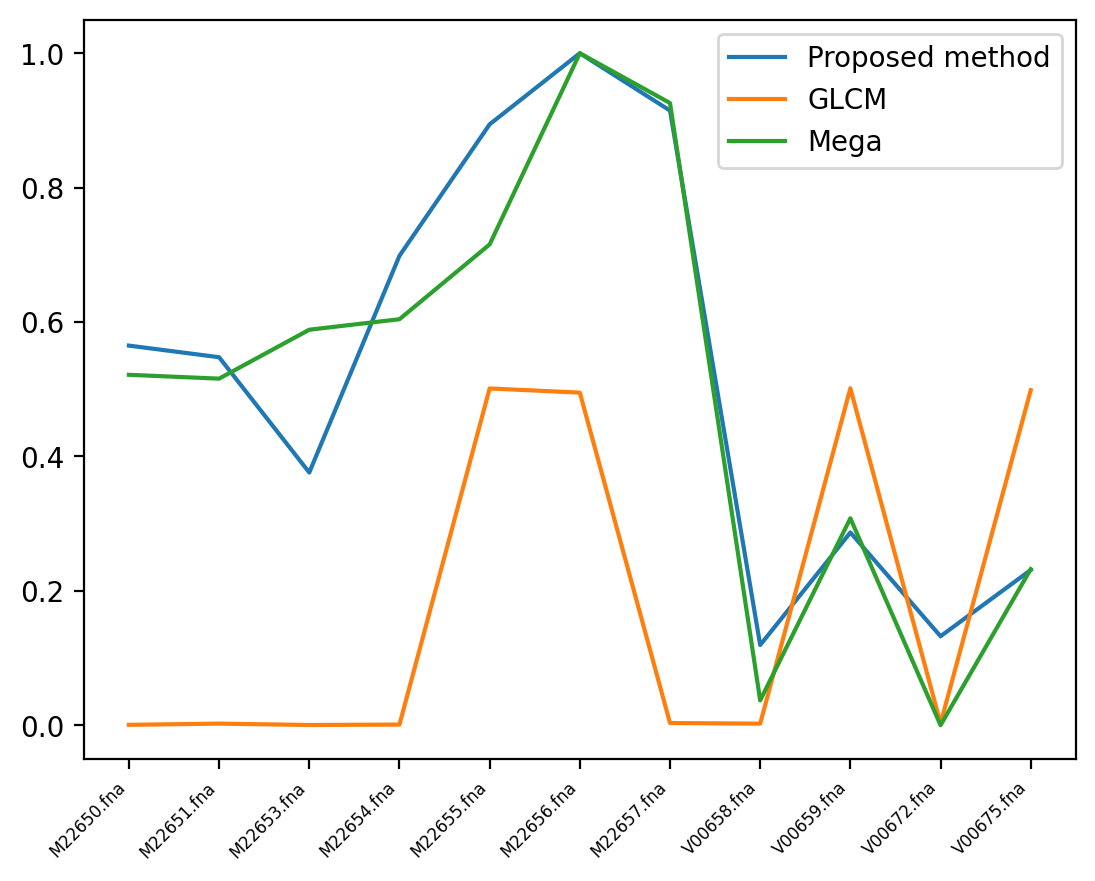
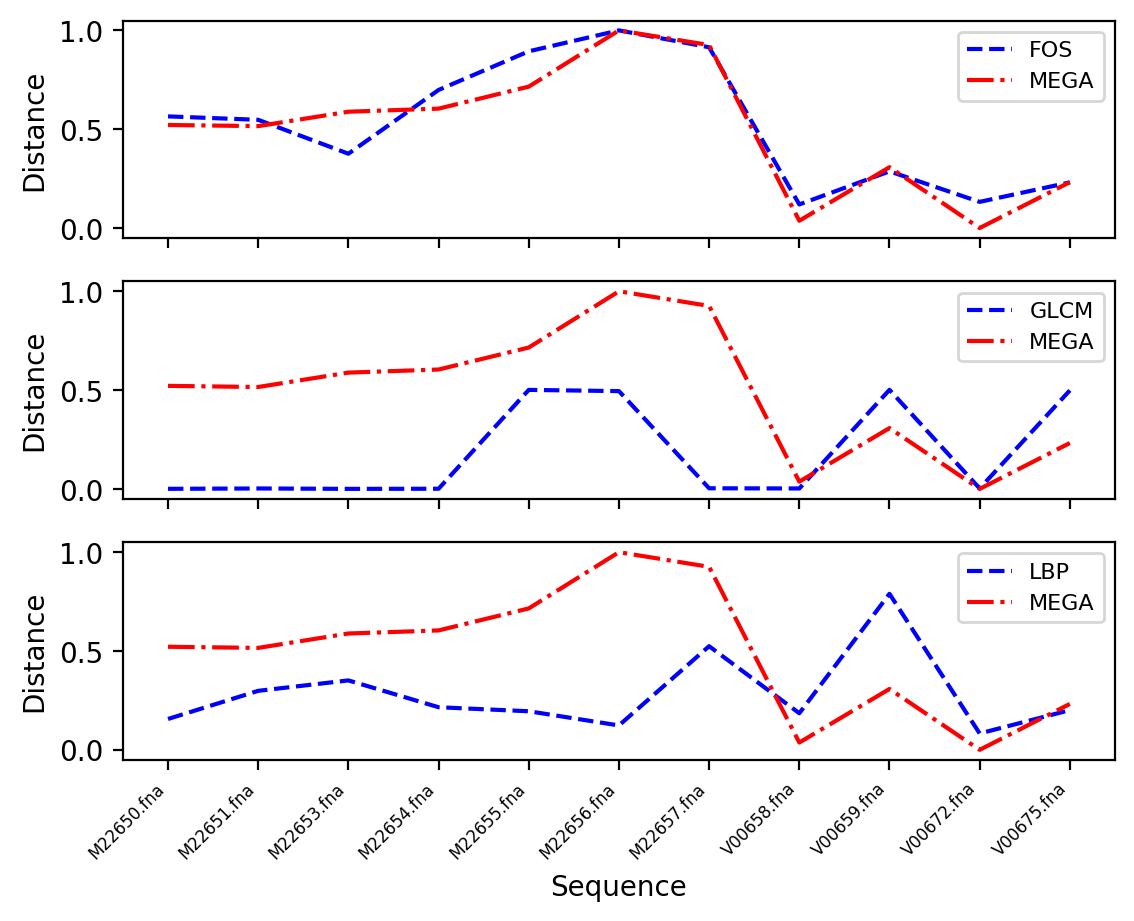
comparando 3 articulos

diff --git a/viral/alignment-free/process.py b/viral/alignment-free/process.py
@@ -3,8 +3,10 @@
 
 from sklearn.model_selection import KFold 
 from sklearn.model_selection import train_test_split
-from matplotlib import pyplot as plt
-from matplotlib import cm
+#from matplotlib import pyplot as plt
+#from matplotlib import cm
+import matplotlib.pyplot as plt 
+from matplotlib import pyplot
 import math
 import os
 import sys
@@ -18,6 +20,7 @@ import seaborn as sns
 
 from descriptor import get_features
 from descriptor import get_features_glcm
+from descriptor import get_features_lbp
 
 from ete3 import PhyloTree, TreeStyle
 
@@ -79,6 +82,7 @@ results_file    = current_dir + "/results/db3.png"
 
 data_features = []
 data_features_glcm = []
+data_features_lbp = []
 
 f_out = open(seq_file_full, "w")
 
@@ -103,11 +107,15 @@ for sequence_file in sequences:
 
     entropy, contrast, energy, correlation, homogeneity = get_features_glcm(seq)
     data_features_glcm.append( [entropy, contrast, energy, correlation, homogeneity] )
+
+    hist_lbp = get_features_lbp(seq)
+    data_features_lbp.append( hist_lbp )
     #print([skewness, my_kurtosis, energy, entropy])
 f_out.close()
 
 data_features = np.array(data_features)
 data_features_glcm = np.array(data_features_glcm)
+data_features_lbp = np.array(data_features_lbp)
 #mean_seq = data_features[0]
 #data_features = data_features[1:data_features.shape[0]]
 #print(data_features)
@@ -154,7 +162,23 @@ distances_proposed_glcm  = DIST_proposed_glcm[0,1:DIST_proposed_glcm.shape[0]]
 ###################################################################################################################
 ###################################################################################################################
 
+####################################################################################
+# distance from LBP
+DIST_proposed_lbp = np.zeros((data_features_lbp.shape[0], data_features_lbp.shape[0]))
+for i in range(data_features_lbp.shape[0]):
+    row = np.zeros(data_features_lbp.shape[0])
+    for j in range(i, data_features_lbp.shape[0]):
+        dist = np.sqrt(np.sum((data_features_lbp[i] - data_features_lbp[j])**2))
+        row[j] = dist    
+    DIST_proposed_lbp[i] = row
 
+#copy the upper triangle to lower triangle in matrix
+DIST_proposed_lbp = DIST_proposed_lbp + DIST_proposed_lbp.T - np.diag(np.diag(DIST_proposed_lbp))
+
+DIST_proposed_lbp = (DIST_proposed_lbp - np.min(DIST_proposed_lbp)) / (np.max(DIST_proposed_lbp) - np.min(DIST_proposed_lbp))
+distances_proposed_lbp  = DIST_proposed_lbp[0,1:DIST_proposed_lbp.shape[0]]
+###################################################################################################################
+###################################################################################################################
 
 
 
@@ -179,15 +203,38 @@ names_temp = names_temp[1:names_temp.shape[0]] # eliminamos el primer elemento
 #print(names)
 
 plt.clf()
-plt.plot(names_temp, distances_proposed, label='Proposed method')
-plt.plot(names_temp, distances_proposed_glcm, label='GLCM')
-plt.plot(names_temp, distances_mega, label='Mega')
+
+#plt.plot(names_temp, distances_proposed, label='FOS', alpha=0.65)
+#plt.plot(names_temp, distances_proposed_glcm, label='GLCM', alpha=0.65)
+#plt.plot(names_temp, distances_proposed_lbp, label='LBP', alpha=0.65)
+#plt.plot(names_temp, distances_mega, label='MEGA')
+#plt.xticks(rotation=45, horizontalalignment='right', fontweight='light', fontsize=6 )
+#plt.legend(loc='upper right')
+
+fig, axs = plt.subplots(3)
+axs[0].plot(names_temp, distances_proposed, 'b--', label='FOS')
+axs[0].plot(names_temp, distances_mega, 'r-.', label='MEGA')
+axs[0].legend(loc='upper right', fontsize=8)
+#axs[0].set_title('First order statistics')
+axs[1].plot(names_temp, distances_proposed_glcm, 'b--', label='GLCM')
+axs[1].plot(names_temp, distances_mega, 'r-.', label='MEGA')
+axs[1].legend(loc='upper right', fontsize=8)
+#axs[1].set_title('First order statistics')
+axs[2].plot(names_temp, distances_proposed_lbp, 'b--', label='LBP')
+axs[2].plot(names_temp, distances_mega, 'r-.', label='MEGA')
+axs[2].legend(loc='upper right', fontsize=8)
+#axs[1].set_title('First order statistics')
+
+for ax in axs.flat:
+    ax.set(xlabel='Sequence', ylabel='Distance')
+
+# Hide x labels and tick labels for top plots and y ticks for right plots.
+for ax in axs.flat:
+    ax.label_outer()
 
 plt.xticks(rotation=45, horizontalalignment='right', fontweight='light', fontsize=6 )
-plt.legend(loc='upper right')
-#plt.xlabel('longitude')
-#plt.ylabel('latitude')
-#plt.show()
+
+
 plt.savefig( results_file, dpi = 200, bbox_inches='tight')
 
 

diff --git a/viral/alignment-free/descriptor.py b/viral/alignment-free/descriptor.py
@@ -180,12 +180,12 @@ def get_features_lbp(seq):
 
     #print(lbp_max)
     #print(exponential)
-    print(bins)
+    #print(bins)
 
     hist, bins = np.histogram(lbp, bins=bins)
-    print(hist)
+    #print(hist)
     #print(lbp)
-    return np.array(lbp)
+    return np.array(hist)
 
 if __name__ == "__main__" :
 
